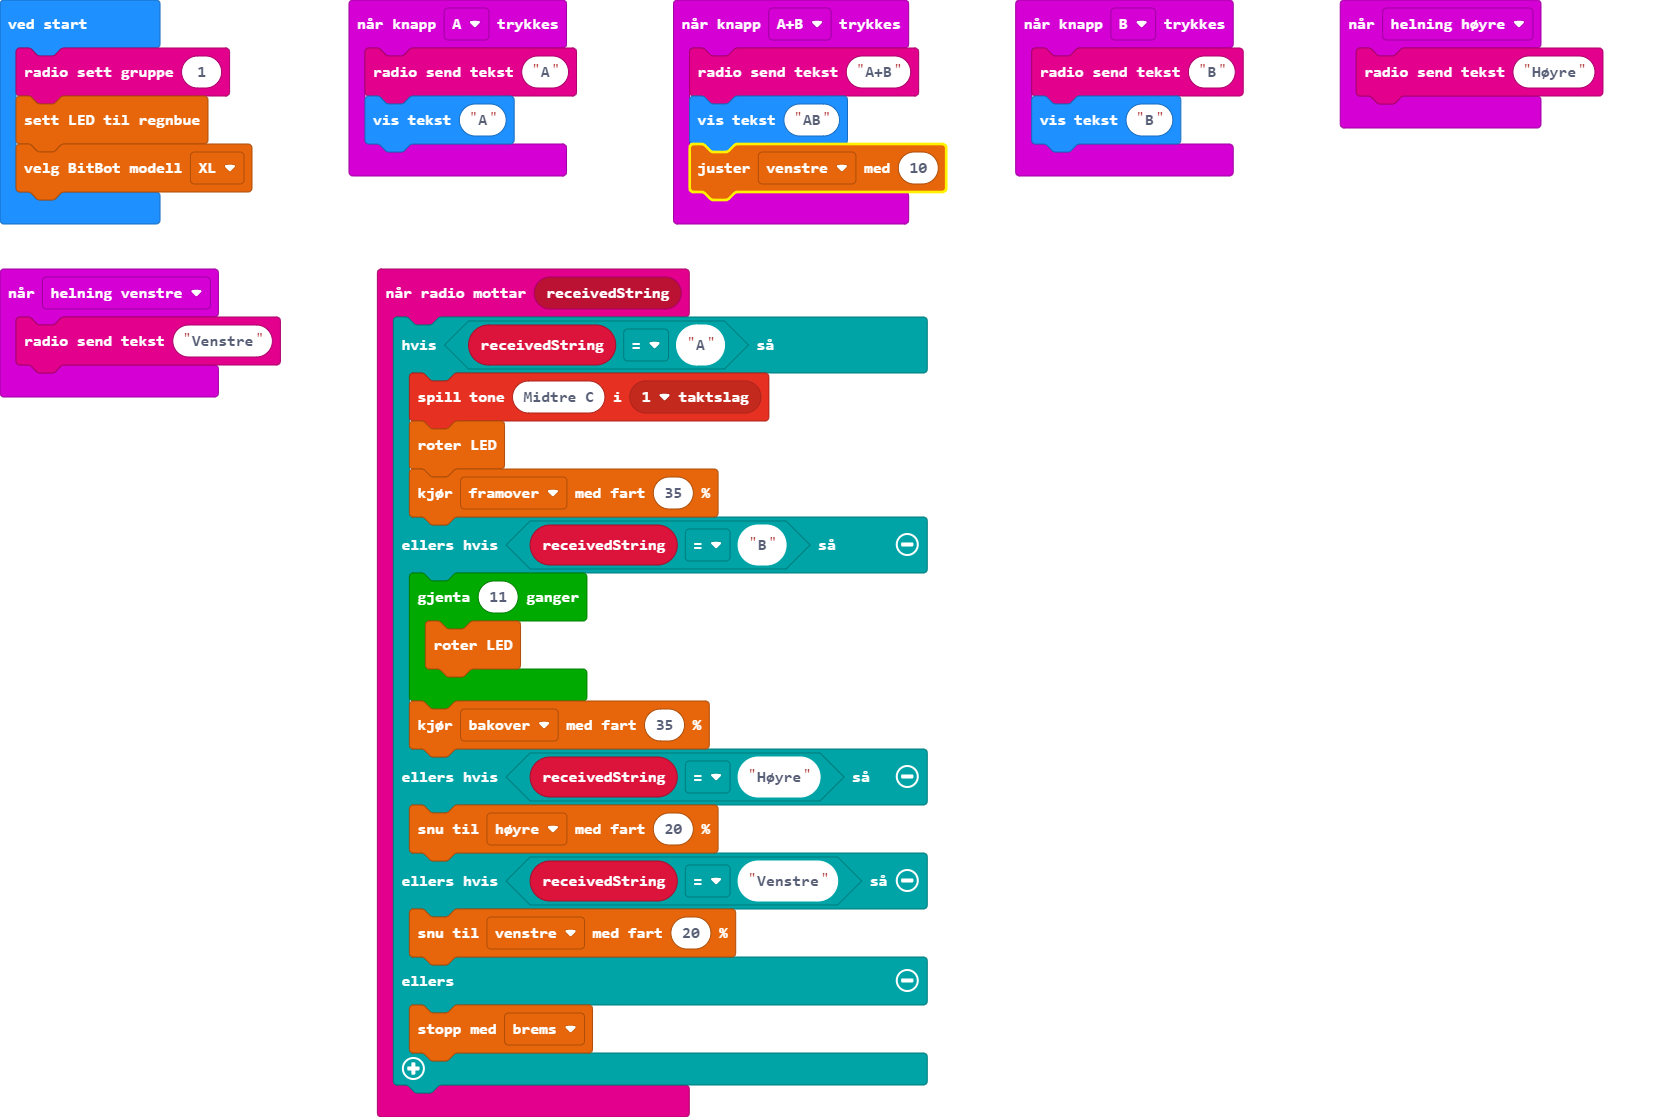
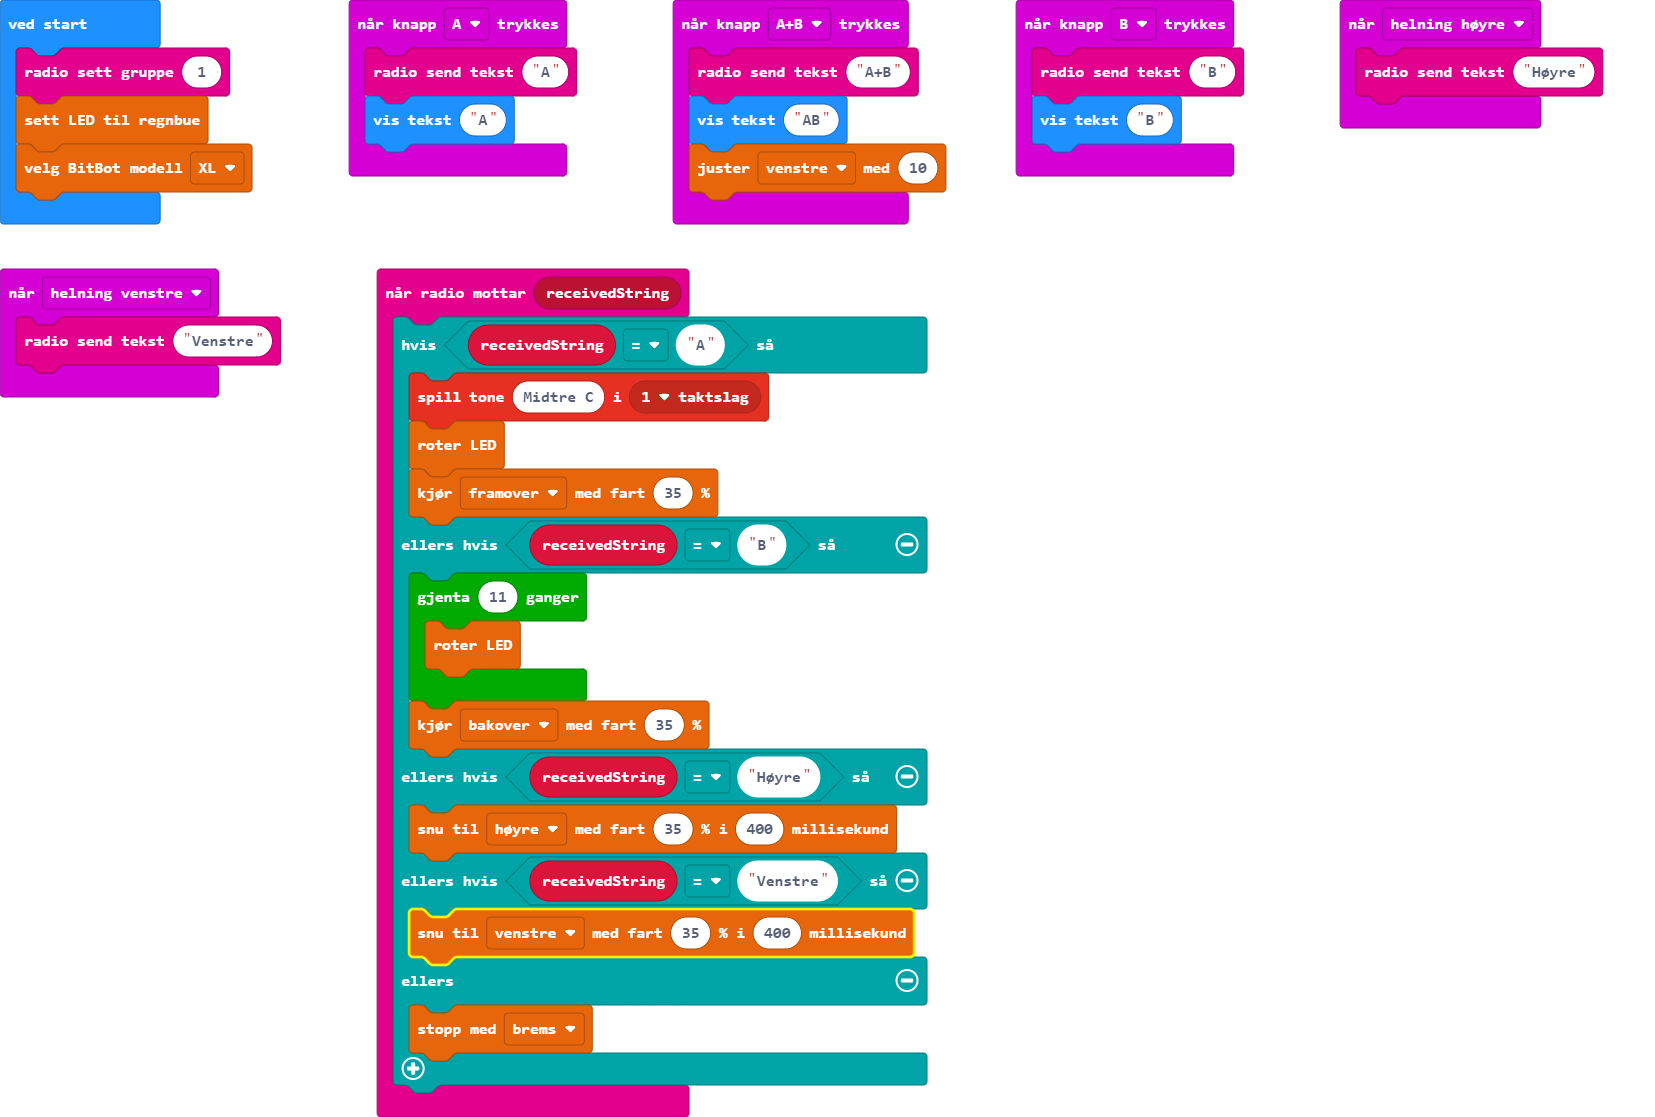
Oppdater pxt.json, main.blocks, main.ts, main.py

diff --git a/main.ts b/main.ts
@@ -21,9 +21,9 @@ radio.onReceivedString(function (receivedString) {
         }
         bitbot.go(BBDirection.Reverse, 35)
     } else if (receivedString == "Høyre") {
-        bitbot.rotate(BBRobotDirection.Right, 20)
+        bitbot.rotatems(BBRobotDirection.Right, 35, 400)
     } else if (receivedString == "Venstre") {
-        bitbot.rotate(BBRobotDirection.Left, 20)
+        bitbot.rotatems(BBRobotDirection.Left, 35, 400)
     } else {
         bitbot.stop(BBStopMode.Brake)
     }

diff --git a/main.py b/main.py
@@ -1,0 +1,44 @@
+def on_button_pressed_a():
+    radio.send_string("A")
+    basic.show_string("A")
+input.on_button_pressed(Button.A, on_button_pressed_a)
+
+def on_gesture_tilt_right():
+    radio.send_string("Høyre")
+input.on_gesture(Gesture.TILT_RIGHT, on_gesture_tilt_right)
+
+def on_button_pressed_ab():
+    radio.send_string("A+B")
+    basic.show_string("AB")
+    bitbot.bb_bias(BBRobotDirection.LEFT, 10)
+input.on_button_pressed(Button.AB, on_button_pressed_ab)
+
+def on_received_string(receivedString):
+    if receivedString == "A":
+        music.play_tone(262, music.beat(BeatFraction.WHOLE))
+        bitbot.led_rotate()
+        bitbot.go(BBDirection.FORWARD, 35)
+    elif receivedString == "B":
+        for index in range(11):
+            bitbot.led_rotate()
+        bitbot.go(BBDirection.REVERSE, 35)
+    elif receivedString == "Høyre":
+        bitbot.rotate(BBRobotDirection.RIGHT, 20)
+    elif receivedString == "Venstre":
+        bitbot.rotate(BBRobotDirection.LEFT, 20)
+    else:
+        bitbot.stop(BBStopMode.BRAKE)
+radio.on_received_string(on_received_string)
+
+def on_button_pressed_b():
+    radio.send_string("B")
+    basic.show_string("B")
+input.on_button_pressed(Button.B, on_button_pressed_b)
+
+def on_gesture_tilt_left():
+    radio.send_string("Venstre")
+input.on_gesture(Gesture.TILT_LEFT, on_gesture_tilt_left)
+
+radio.set_group(1)
+bitbot.led_rainbow()
+bitbot.select_model(BBModel.XL)
